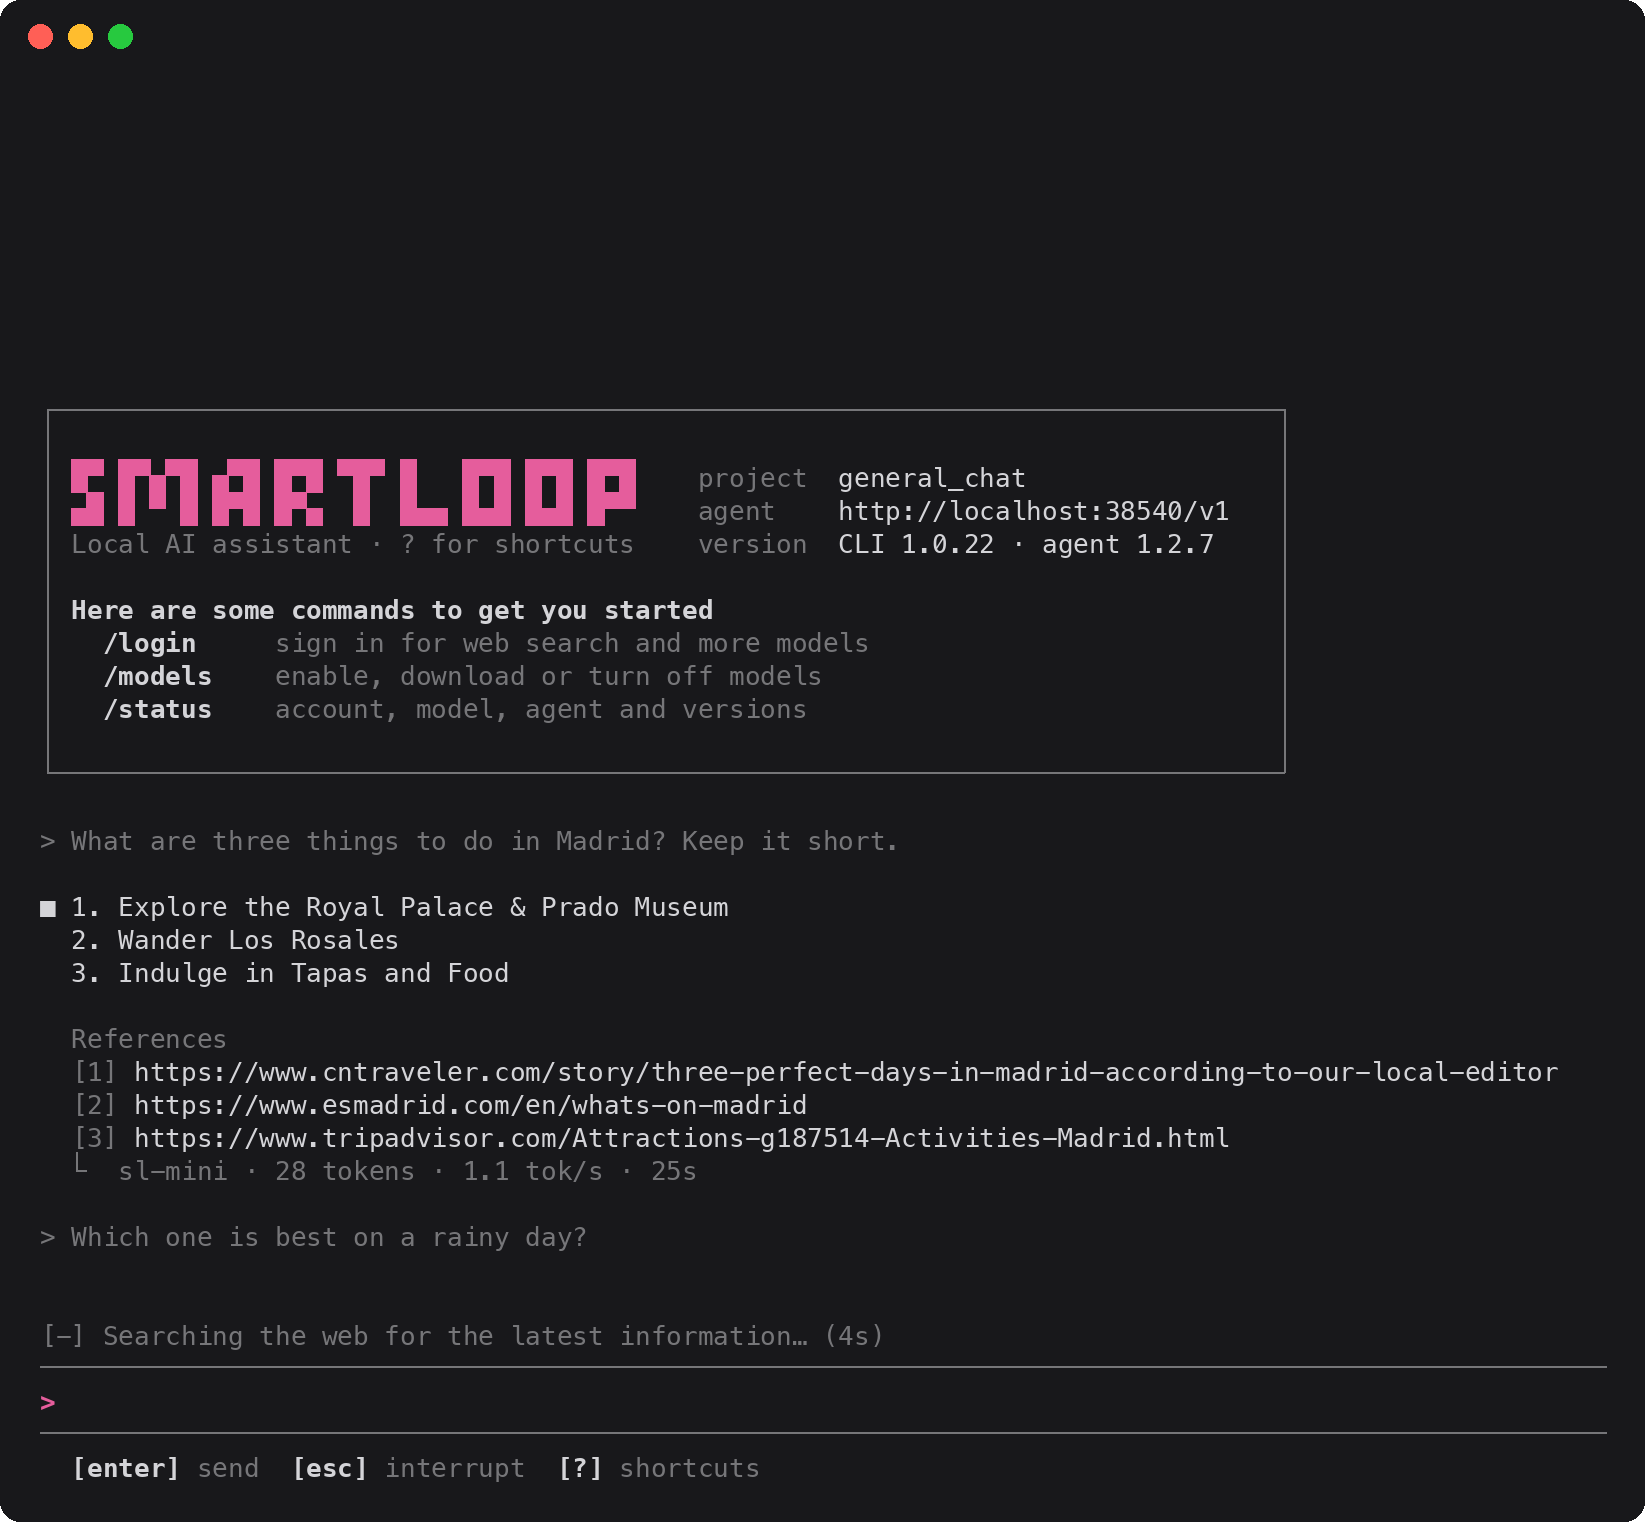
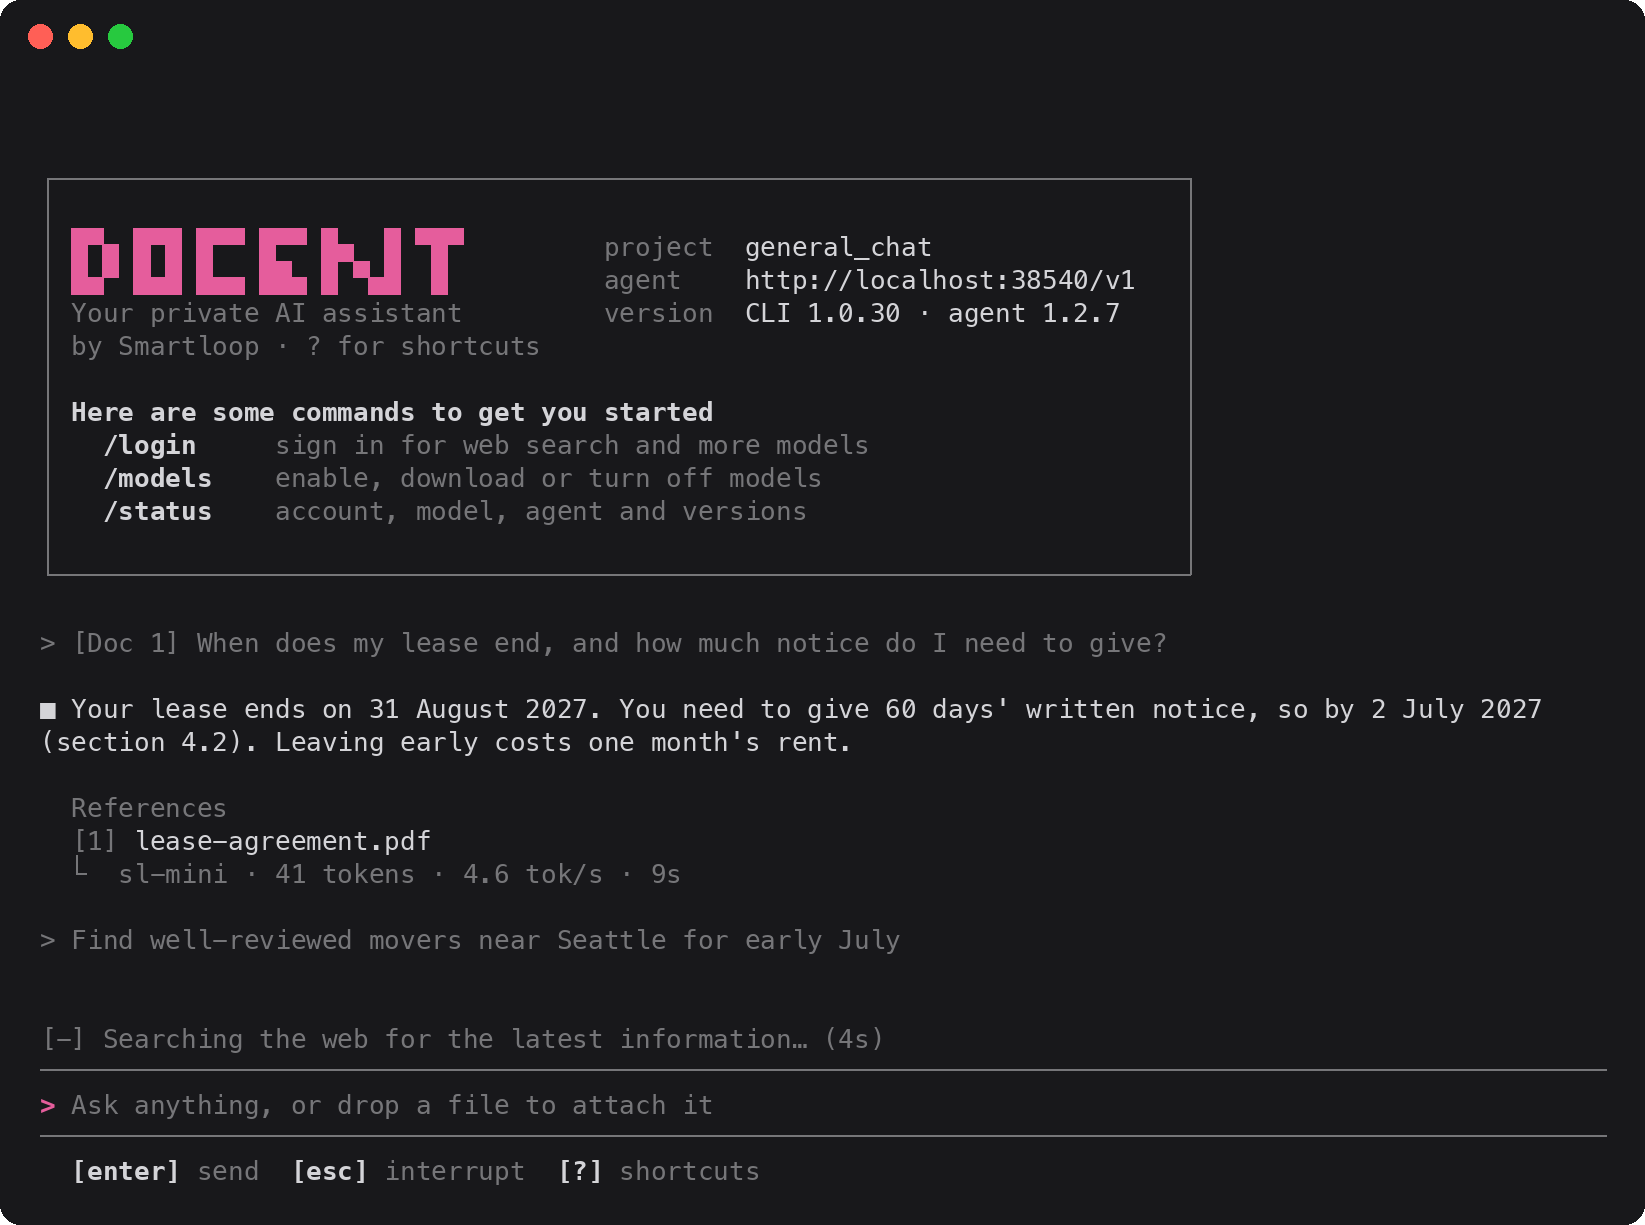
Show docent in the README and installers, and refresh the screenshot
The examples, error hints and installer steps name the docent command.
The N in the logo is a cell wider so its diagonal reads, which it didn't
at screenshot size. The screenshot asks about a lease in an attached PDF,
then searches the web.

diff --git a/src/tui.rs b/src/tui.rs
@@ -67,8 +67,8 @@ const USAGE_BAR: usize = 30;
 const SPINNER: [&str; 4] = ["[-]", "[\\]", "[|]", "[/]"];
 
 const BANNER: [&str; 2] = [
-    "█▀▄ █▀█ █▀▀ █▀▀ █▄ █ ▀█▀",
-    "█▄▀ █▄█ █▄▄ ██▄ █ ▀█  █",
+    "█▀▄ █▀█ █▀▀ █▀▀ █▄  █ ▀█▀",
+    "█▄▀ █▄█ █▄▄ ██▄ █ ▀▄█  █",
 ];
 
 /// Run the app until the user quits, then print the session id so the
@@ -844,7 +844,7 @@ impl App {
                 }
             }
             None => self.entries.push(Entry::Error(
-                "No projects found; create one with `smartloop project create`".to_string(),
+                "No projects found; create one with `docent project create`".to_string(),
             )),
         }
     }
@@ -1565,8 +1565,8 @@ impl App {
     /// ```text
     /// ╭───────────────────────────────────────────────────────────────────────────╮
     /// │                                                                           │
-    /// │ █▀▄ █▀█ █▀▀ █▀▀ █▄ █ ▀█▀          project  general_chat                   │
-    /// │ █▄▀ █▄█ █▄▄ ██▄ █ ▀█  █           agent    http://localhost:38540/v1      │
+    /// │ █▀▄ █▀█ █▀▀ █▀▀ █▄  █ ▀█▀         project  general_chat                   │
+    /// │ █▄▀ █▄█ █▄▄ ██▄ █ ▀▄█  █          agent    http://localhost:38540/v1      │
     /// │ Your private AI assistant         version  CLI 1.0.14 · agent 1.2.7       │
     /// │ by Smartloop · ? for shortcuts                                            │
     /// │                                                                           │
@@ -2421,20 +2421,18 @@ mod tests {
         let mut app = app();
         app.phase = Phase::Ready;
         app.project = Some(("p1".into(), "general_chat".into()));
-        app.entries.push(Entry::User("What are three things to do in Madrid? Keep it short.".into()));
+        app.entries.push(Entry::User("[Doc 1] When does my lease end, and how much notice do I need to give?".into()));
         app.entries.push(Entry::Reply(Reply {
             warnings: Vec::new(),
             model: Some("sl-mini".into()),
-            text: "1. Explore the Royal Palace & Prado Museum\n2. Wander Los Rosales\n3. Indulge in Tapas and Food".into(),
-            citations: vec![
-                "https://www.cntraveler.com/story/three-perfect-days-in-madrid-according-to-our-local-editor".into(),
-                "https://www.esmadrid.com/en/whats-on-madrid".into(),
-                "https://www.tripadvisor.com/Attractions-g187514-Activities-Madrid.html".into(),
-            ],
-            stats: Some(TurnStats { tokens: 28, elapsed: Duration::from_secs(25) }),
+            text: "Your lease ends on 31 August 2027. You need to give 60 days' written notice, \
+                   so by 2 July 2027 (section 4.2). Leaving early costs one month's rent."
+                .into(),
+            citations: vec!["lease-agreement.pdf".into()],
+            stats: Some(TurnStats { tokens: 41, elapsed: Duration::from_secs(9) }),
             ended: None,
         }));
-        app.entries.push(Entry::User("Which one is best on a rainy day?".into()));
+        app.entries.push(Entry::User("Find well-reviewed movers near Seattle for early July".into()));
         app.entries.push(Entry::Reply(Reply::default()));
         let runtime = tokio::runtime::Runtime::new().unwrap();
         app.turn = Some(Turn {
@@ -2446,7 +2444,7 @@ mod tests {
         });
         app.input = "".into();
 
-        let (width, height) = (100, 42);
+        let (width, height) = (100, 33);
         let mut terminal = Terminal::new(TestBackend::new(width, height)).unwrap();
         terminal.draw(|f| app.draw(f)).unwrap();
         let buffer = terminal.backend().buffer();

diff --git a/src/main.rs b/src/main.rs
@@ -15,8 +15,8 @@ mod tui;
 mod usage;
 
 const LOGO: &str = r#"
-█▀▄ █▀█ █▀▀ █▀▀ █▄ █ ▀█▀
-█▄▀ █▄█ █▄▄ ██▄ █ ▀█  █
+█▀▄ █▀█ █▀▀ █▀▀ █▄  █ ▀█▀
+█▄▀ █▄█ █▄▄ ██▄ █ ▀▄█  █
 "#;
 
 #[derive(Parser)]
@@ -28,7 +28,7 @@ const LOGO: &str = r#"
 )]
 
 struct Args {
-    /// Without one, `smartloop` opens the chat, as `smartloop run` does.
+    /// Without one, `docent` opens the chat, as `docent run` does.
     #[command(subcommand)]
     command: Option<Commands>,
 }
@@ -98,7 +98,7 @@ enum ModelCommands {
     },
     /// Enable a model for a project, downloading it first when needed
     Enable {
-        /// Model name, as shown by `smartloop model list`
+        /// Model name, as shown by `docent model list`
         name: String,
         /// Project ID; defaults to the current project
         #[arg(long, short)]
@@ -106,7 +106,7 @@ enum ModelCommands {
     },
     /// Disable a model for a project and unload it
     Disable {
-        /// Model name, as shown by `smartloop model list`
+        /// Model name, as shown by `docent model list`
         name: String,
         /// Project ID; defaults to the current project
         #[arg(long, short)]
@@ -246,7 +246,7 @@ fn list_projects(client: &Client) {
 fn select_project(client: &Client) -> String {
     let projects = fetch_projects(client);
     if projects.is_empty() {
-        fail("No projects found; create one with `smartloop project create`".to_string());
+        fail("No projects found; create one with `docent project create`".to_string());
     }
 
     let default = projects
@@ -509,7 +509,7 @@ fn resolve_project(client: &Client, project: Option<String>) -> String {
         .or_else(|| projects.first())
         .and_then(|p| p["id"].as_str())
         .map(str::to_string)
-        .unwrap_or_else(|| fail("No projects found; create one with `smartloop project create`".to_string()))
+        .unwrap_or_else(|| fail("No projects found; create one with `docent project create`".to_string()))
 }
 
 fn project_models_url(project_id: &str) -> String {

diff --git a/src/progress.rs b/src/progress.rs
@@ -1,8 +1,8 @@
 //! A checklist of setup steps drawn on stderr under the Docent banner:
 //!
 //! ```text
-//! █▀▄ █▀█ █▀▀ █▀▀ █▄ █ ▀█▀
-//! █▄▀ █▄█ █▄▄ ██▄ █ ▀█  █
+//! █▀▄ █▀█ █▀▀ █▀▀ █▄  █ ▀█▀
+//! █▄▀ █▄█ █▄▄ ██▄ █ ▀▄█  █
 //!
 //! [✓] Agent 1.2.7                        667 MB
 //! [✓] Start agent                    port 38540
@@ -310,8 +310,8 @@ impl Drop for Checklist {
 
 /// The Docent wordmark, printed at startup.
 const BANNER: [&str; 2] = [
-    "█▀▄ █▀█ █▀▀ █▀▀ █▄ █ ▀█▀",
-    "█▄▀ █▄█ █▄▄ ██▄ █ ▀█  █",
+    "█▀▄ █▀█ █▀▀ █▀▀ █▄  █ ▀█▀",
+    "█▄▀ █▄█ █▄▄ ██▄ █ ▀▄█  █",
 ];
 
 const BOLD: &str = "\x1b[1m";

diff --git a/src/framework.rs b/src/framework.rs
@@ -747,7 +747,7 @@ pub fn stream_progress(
             .and_then(|b| b["detail"].as_str().map(str::to_string))
             .unwrap_or_else(|| status.to_string());
         let hint = if matches!(status.as_u16(), 401 | 403) {
-            "; sign in with `smartloop login`"
+            "; sign in with `docent login`"
         } else {
             ""
         };

diff --git a/README.md b/README.md
@@ -4,7 +4,7 @@ Your private AI assistant. Chat with your PDFs and Office files, search the web,
 
 It installs as both `docent` and `smartloop`; the two are the same command.
 
-<img width="822" alt="smartloop run: a reply with its sources, the status line and the prompt" src="docs/tui.png" />
+<img width="822" alt="docent run: a reply with its sources, the status line and the prompt" src="docs/tui.png" />
 
 More at:
 [docs.smartloop.ai](https://smartloop.ai/docs/intro/)
@@ -85,19 +85,19 @@ A step without a bar shows its elapsed time once it runs past a couple of
 seconds, and it ends with `✓ Setup complete in 1min 12s`.
 
 When stderr isn't a terminal, each step prints one line as it finishes
-instead. `smartloop model enable` shows the same checklist for its download.
+instead. `docent model enable` shows the same checklist for its download.
 
 To do this up front, or to stop the agent:
 
 ```sh
-smartloop agent start
-smartloop agent stop
+docent agent start
+docent agent stop
 ```
 
 ### Login
 
 ```sh
-smartloop login
+docent login
 ```
 
 Opens app.smartloop.ai in the browser to sign in, the same way the desktop app
@@ -106,16 +106,16 @@ stores it and uses it for every platform call. The command waits (up to five
 minutes) and prints the account it signed in as. If the browser doesn't open,
 visit the URL it prints.
 
-To sign in with a token instead, run `smartloop login --token` and paste it at
+To sign in with a token instead, run `docent login --token` and paste it at
 the prompt (input is hidden), or use `--token <token>` or pipe it on stdin in
-scripts. `smartloop logout` clears the stored credentials.
+scripts. `docent logout` clears the stored credentials.
 
 ### Projects
 
 List projects:
 
 ```sh
-smartloop project list
+docent project list
 ```
 
 Output is rendered as a table showing each project's ID, name, and whether it is a system project.
@@ -123,8 +123,8 @@ Output is rendered as a table showing each project's ID, name, and whether it is
 Create a project from a blank template:
 
 ```sh
-smartloop project create --name my-project
-smartloop project create --name my-project --description "Research notes"
+docent project create --name my-project
+docent project create --name my-project --description "Research notes"
 ```
 
 A blank project starts with no skills; the service seeds it with the workspace
@@ -135,8 +135,8 @@ choose.
 Import a project from an archive produced by an earlier export:
 
 ```sh
-smartloop project create --import my-project.zip
-smartloop project create --import my-project.zip --name restored-project
+docent project create --import my-project.zip
+docent project create --import my-project.zip --name restored-project
 ```
 
 `--name` is optional here — pass it to rename the imported project. The import
@@ -146,14 +146,14 @@ archive on the way in.
 Delete a project:
 
 ```sh
-smartloop project delete --id <project-id>
+docent project delete --id <project-id>
 ```
 
 Check which endpoint the CLI uses, whether the local agent is running there,
 which model it has loaded, and the per-project agents it has started:
 
 ```sh
-smartloop agent status
+docent agent status
 ```
 
 ```
@@ -174,10 +174,10 @@ The command exits with status 1 when the agent can't be reached there.
 Start an interactive chat with the local agent:
 
 ```sh
-smartloop
+docent
 ```
 
-`smartloop` on its own is short for `smartloop run`. In a terminal this opens a full-screen app, laid out like Claude Code. While
+`docent` on its own is short for `docent run`. In a terminal this opens a full-screen app, laid out like Claude Code. While
 a reply runs, a live status line above the prompt shows the agent's current
 step (web search, document lookup, model selection) and for how long, with a
 line per running download. The finished reply keeps its sources and the model
@@ -226,15 +226,15 @@ On exit it prints the session id, to resume with `--session`.
 Pass an initial prompt to send immediately:
 
 ```sh
-smartloop run "what are some things to do in madrid spain?"
+docent run "what are some things to do in madrid spain?"
 ```
 
 Options:
 
 ```sh
-smartloop run --project <project-id>   # chat in this project
-smartloop run --session <session-id>   # resume an existing session; a new one is created when omitted
-smartloop run --plain                  # line-by-line chat instead of the full-screen app
+docent run --project <project-id>   # chat in this project
+docent run --session <session-id>   # resume an existing session; a new one is created when omitted
+docent run --plain                  # line-by-line chat instead of the full-screen app
 ```
 
 When stdin or stdout isn't a terminal, or with `--plain`, `run` chats line by
@@ -257,20 +257,20 @@ The orchestrator picks which model serves each turn from the models enabled
 for the project. List what's available and its state for the current project:
 
 ```sh
-smartloop model list
+docent model list
 ```
 
 Enable or disable a model:
 
 ```sh
-smartloop model enable gemma4-e2b
-smartloop model disable gemma4-e2b
+docent model enable gemma4-e2b
+docent model disable gemma4-e2b
 ```
 
 `enable` downloads the weights first when they aren't on disk yet, showing
 progress, and only then switches the model on. Weights are shared across
 projects, so each model downloads once. Models marked `(sign in)` need
-`smartloop login` first. `disable` also unloads the model from memory. All
+`docent login` first. `disable` also unloads the model from memory. All
 three take `--project <project-id>` to act on a project other than the current
 one. The `sl-mini` orchestrator is always on and isn't listed.
 
@@ -280,7 +280,7 @@ The CLI connects to the local agent on whatever port it picked
 (`~/.smartloop/server.port`). Point it elsewhere with `SMARTLOOP_API_URL`:
 
 ```sh
-SMARTLOOP_API_URL=http://localhost:9000 smartloop project list
+SMARTLOOP_API_URL=http://localhost:9000 docent project list
 ```
 
 With `SMARTLOOP_API_URL` set, the CLI only connects: it never installs or starts
